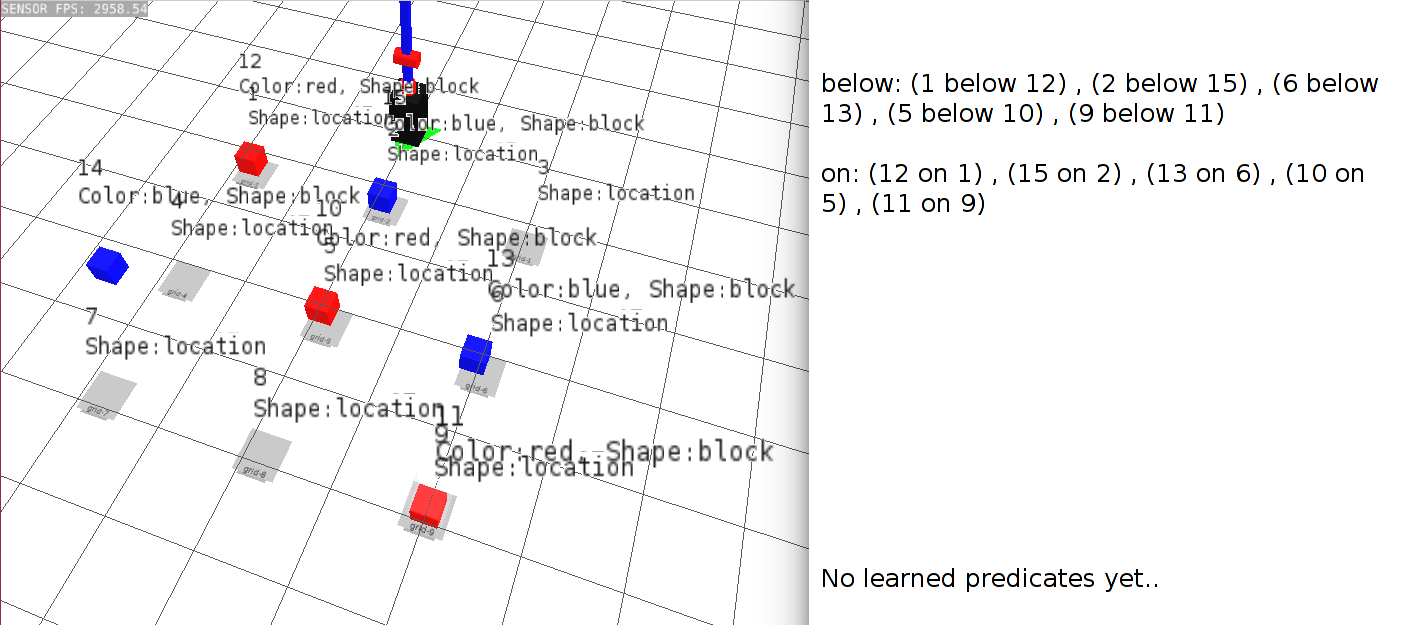
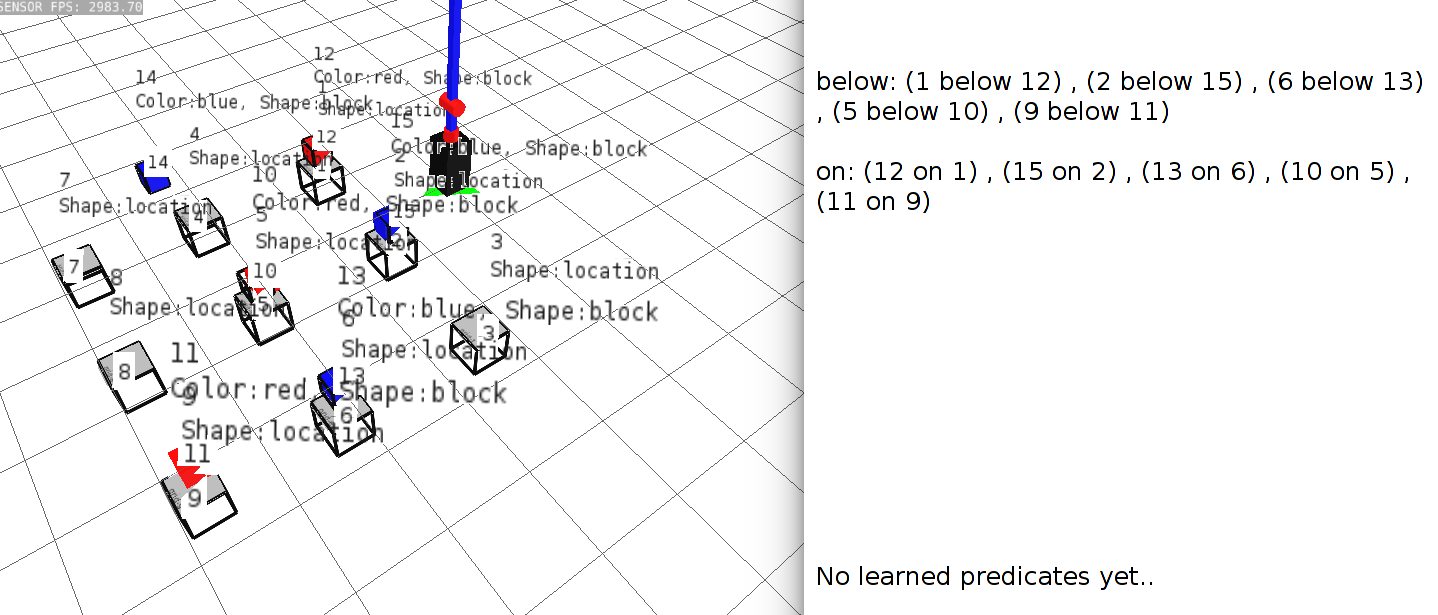
Added visualization buttons and images

diff --git a/main.js b/main.js
@@ -24,16 +24,9 @@ var curr_exp = -1;
 
         // Text input per example
         var file1 = "text/interaction.txt";
-        //var file2 = 'text/1_1.json';
         var answers_file = 'text/answers.json';
-        var qna_list_file = 'text/question_answer_list.json';
+        var viz_file = 'text/viz.json';
         var examples = [1,2,3,4,5,6,7,8,9,10,11,12,13,14,15,16];
-        function getInteractionText() {
-            $.get('text/interaction.txt', function (txt) {
-                alert(txt);
-                var lines = txt.split("\n");
-            });
-        }
 
         // Shuffled list of experiments
         var textOrder = Shuffle(examples);
@@ -96,9 +89,8 @@ var curr_exp = -1;
             document.getElementById("visual-buttons").innerHTML = '';
             //prevTime = startTime;
             // var startTime = Date.now();
-            debugger;
             curr_exp = curr_exp + 1;
-            curr_id = examples[curr_exp];
+            var curr_id = examples[curr_exp];
             if (curr_exp > 0)
             {
                 $("#conv_set" + examples[curr_exp - 1].toString()).hide();
@@ -107,7 +99,6 @@ var curr_exp = -1;
 
             document.getElementById('serialno').innerHTML = curr_exp.toString();
             document.getElementById('serialno').innerHTML += " " + curr_id.toString();
-            resetTime();
 
             $("#conv_set" + curr_id.toString()).show();
             $("#img_set" + curr_id.toString()).show();
@@ -126,18 +117,16 @@ var curr_exp = -1;
             if(arr_viz.indexOf(curr_id) != -1)
             {
                 $('#visual-buttons').show();
-
-                // PR - make function out of making buttons
-                var button1 = document.createElement("button");
-                button1.setAttribute("class","btn");
-                button1.type = "button";
-                var t = document.createTextNode("Show annotations");
-                // PR - add function to this
-                button1.addEventListener("click", function() {
-                    change_image(curr_id, button1.textContent);
+                readTextFile(viz_file, function(text1){
+                    var items = [];
+                    var viz_options = JSON.parse(text1);
+                    var jobject = viz_options.find(item => item.id === curr_id);
+                    for (var x=0;x < jobject.values.length; x++)
+                    {
+                        var button1 = create_button(curr_id, jobject.values[x]);
+                        document.getElementById("visual-buttons").appendChild(button1);
+                    }
                 });
-                button1.appendChild(t);
-                document.getElementById("visual-buttons").appendChild(button1);
             }
             // Showing final answer options
             $('#user-input-options').show();
@@ -159,10 +148,38 @@ var curr_exp = -1;
             $('#user-answer').html((user_answer_list[curr_id-1]).join(' '));
         }
 
+        function create_button(curr_id, text_value) {
+            var button1 = document.createElement("button");
+            button1.setAttribute("class","btn");
+            button1.type = "button";
+            var t = document.createTextNode(text_value);
+            // PR - add function to this
+            button1.addEventListener("click", function() {
+                change_image(curr_id, text_value);
+            });
+            button1.appendChild(t);
+            return button1;
+        }
+
         function change_image(curr_id, textContent) {
-            debugger;
-            var button_text = "annotations"; // {"Show annotations":"annotations","aaa":"aaa") - add other concepts to this
-            document.getElementById("img_set"+curr_id).setAttribute("src","images/img_" + curr_id + "_"+ button_text + ".png");
+            var src = "";
+            switch (textContent)
+            {
+                case "Show annotations":    src = "images/img_" + curr_id + "_annotations.png";
+                                            break;
+                case "Show original":       src = "images/img_" + curr_id + ".png";
+                                            break;
+                case "Show clear":          src = "images/img_" + curr_id + "_clear.png";
+                                            break;
+                case "Show free":           src = "images/img_" + curr_id + "_free.png";
+                                            break;
+                case "Show matched":        src = "images/img_" + curr_id + "_matched.png";
+                                            break;
+                case "Show occupied":       src = "images/img_" + curr_id + "_occupied.png";
+                                            break;
+            
+            }
+            document.getElementById("img_set"+curr_id).setAttribute("src", src);
 
         }
 
